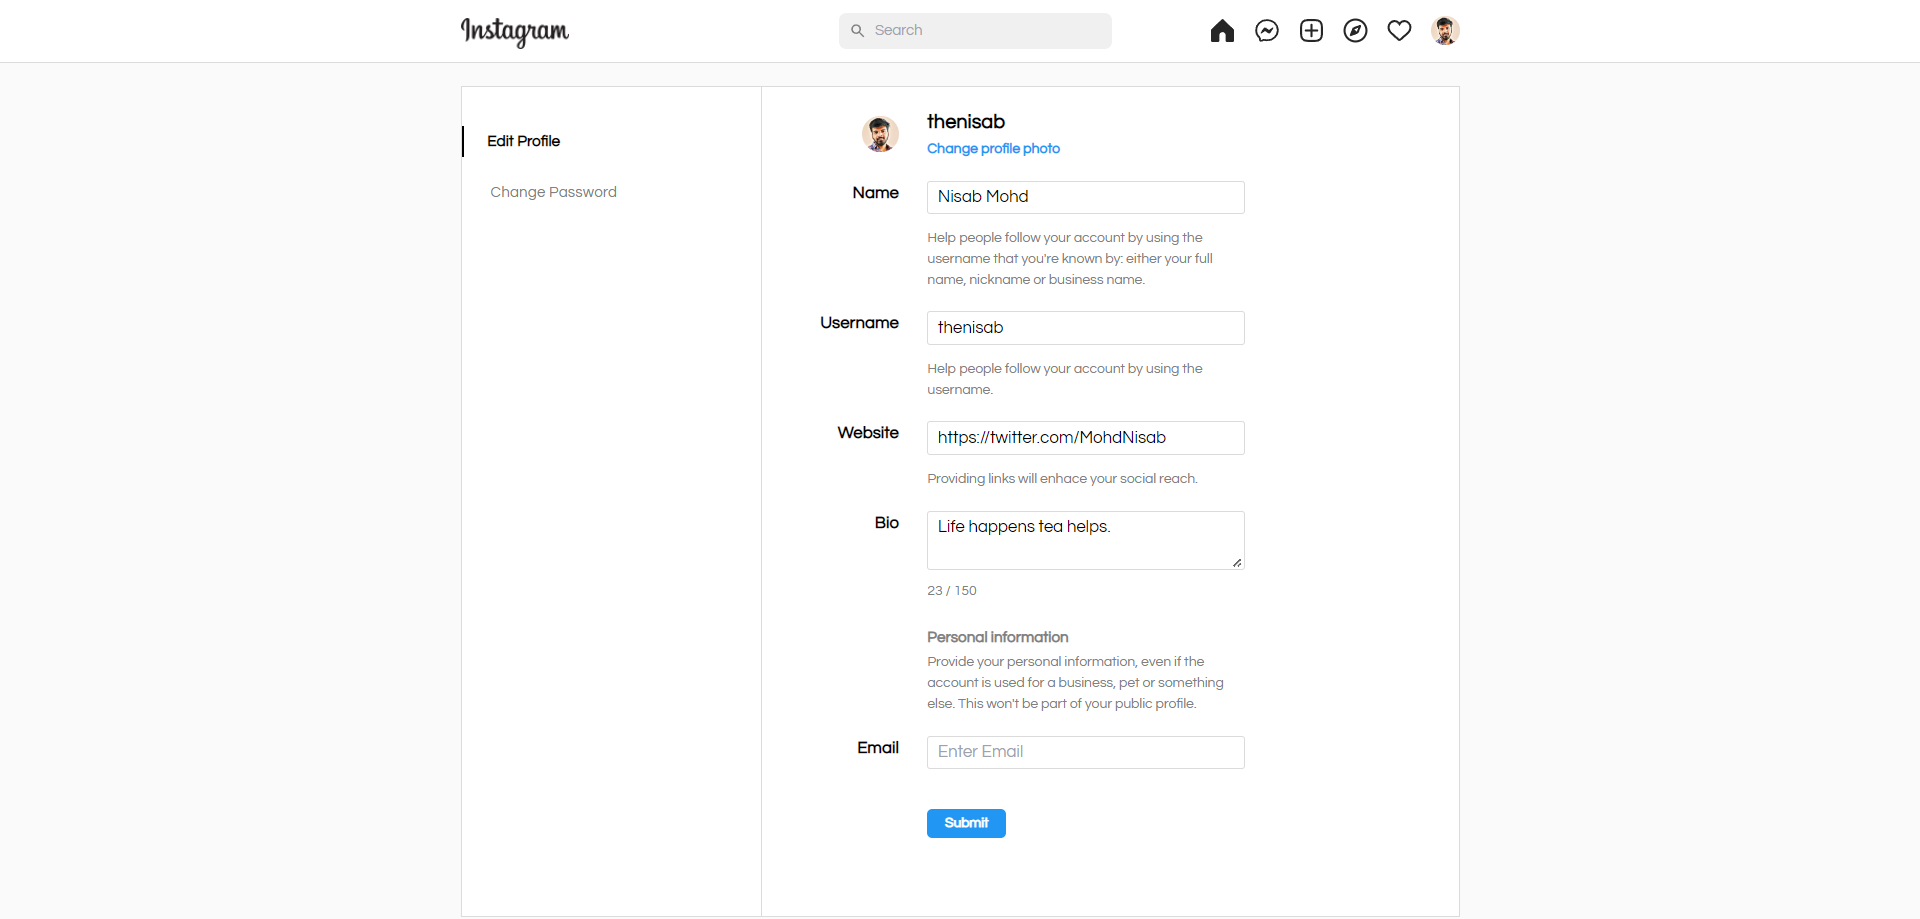
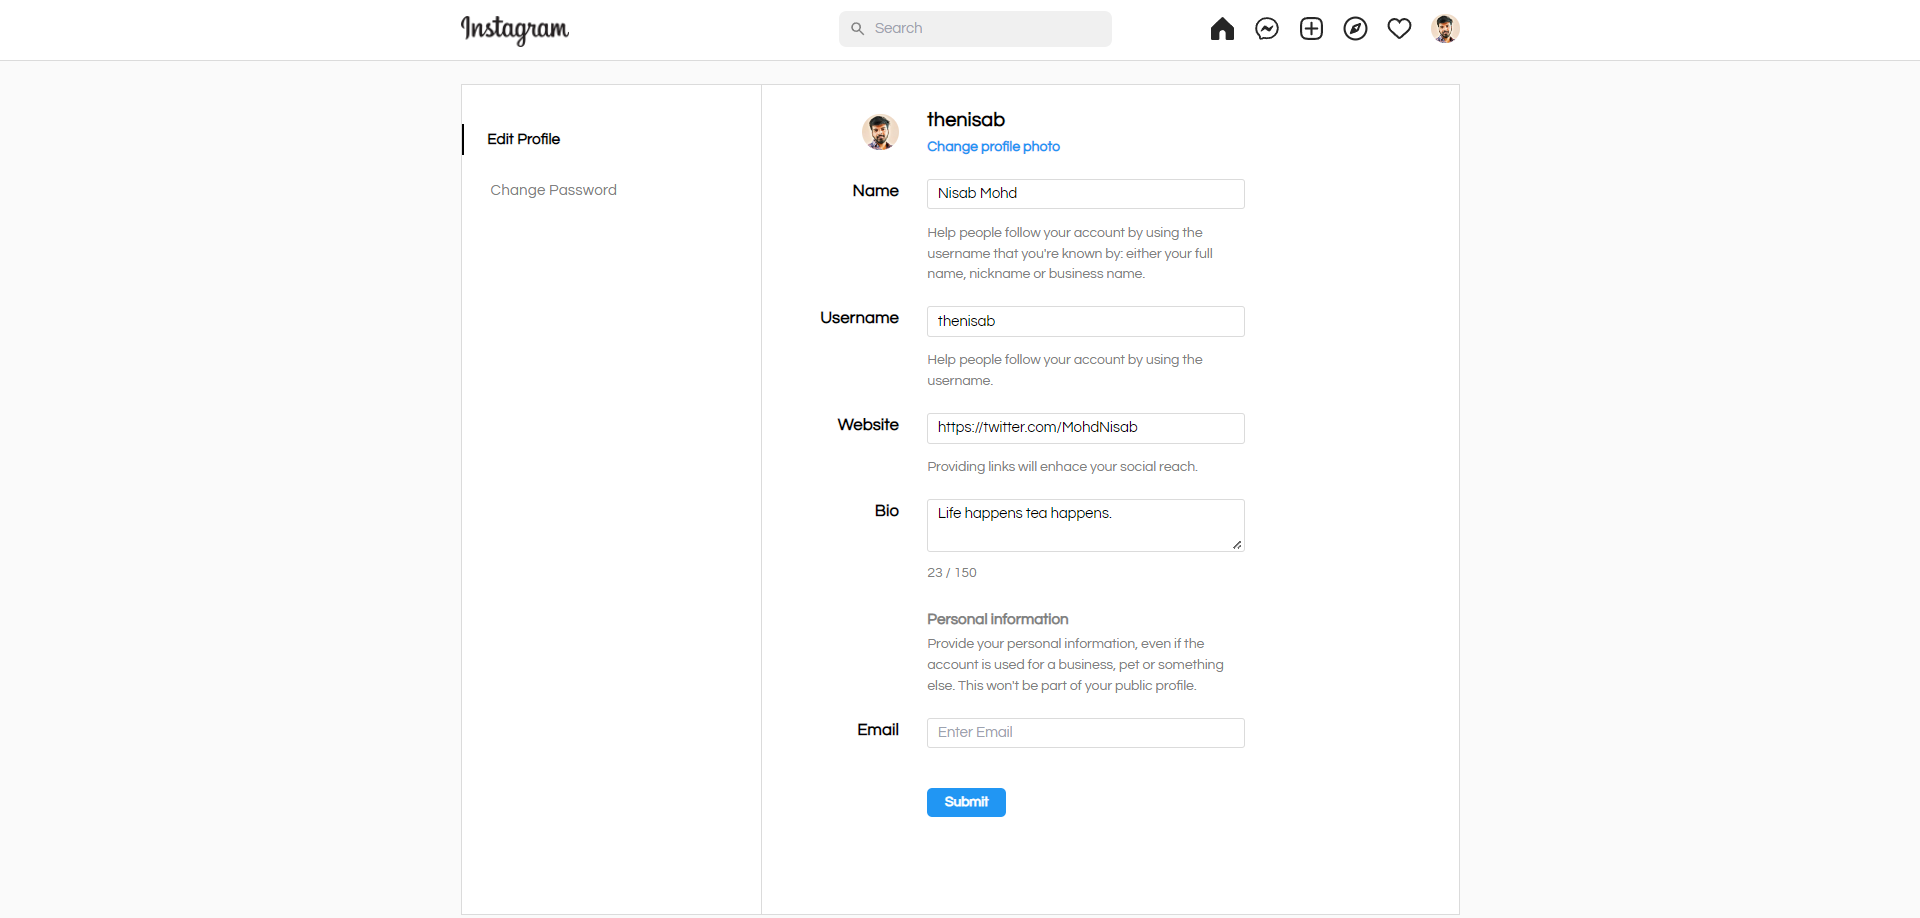
addedprofile btns

diff --git a/frontend/src/pages/Profile.jsx b/frontend/src/pages/Profile.jsx
@@ -5,9 +5,12 @@ import defaultimg from '../assets/dafault.png'
 import { Spinner } from '../assets/Spinner'
 import { url } from '../baseUrl'
 import { api } from '../Interceptor/apiCall'
+import { useContext } from 'react'
+import { AuthContext } from '../context/Auth'
 
 export const Profile = ({ post = true }) => {
-  const navigate=useNavigate()
+  const navigate = useNavigate()
+  const context = useContext(AuthContext)
   const [user, setUser] = useState()
   const [posts, setPosts] = useState([])
   const [loading, setLoading] = useState(true)
@@ -53,15 +56,28 @@ export const Profile = ({ post = true }) => {
           <div className="imageuser" style={{ width: '155px', height: '155px', borderRadius: '50%', border: '3px solid #c1c1c1', display: 'flex', alignItems: 'center', justifyContent: 'center', padding: '5px', objectFit: 'cover' }}>
             {
               <img src={user?.avatar ? user.avatar : defaultimg} style={{ minWidth: '145px', height: '145px', borderRadius: '50%', objectFit: 'cover' }} alt="" />
-
             }
           </div>
         </div>
         <div className="follow-details" style={{ marginLeft: '5vw' }}>
           <div className="samline" style={{ display: 'flex', flexDirection: 'row', alignItems: 'center' }}>
             <p style={{ fontSize: '29px', marginRight: '22px', fontWeight: 'lighter', color: '#424141' }}>{user?.username}</p>
-            <button onClick={()=>{navigate('/accounts/edit')}} style={{ border: '1px solid #c1c1c1', padding: '4px 7px', fontSize: '14px', borderRadius: '4px', fontWeight: 'bold', marginRight: '22px', color: '#424141' }}>Edit Profile</button>
-            <button className='no-style'><svg aria-label="Options" className="_ab6-" color="#262626" fill="#262626" height="24" role="img" viewBox="0 0 24 24" width="24"><circle cx="12" cy="12" fill="none" r="8.635" stroke="currentColor" strokeLinecap="round" strokeLinejoin="round" strokeWidth="2"></circle><path d="M14.232 3.656a1.269 1.269 0 0 1-.796-.66L12.93 2h-1.86l-.505.996a1.269 1.269 0 0 1-.796.66m-.001 16.688a1.269 1.269 0 0 1 .796.66l.505.996h1.862l.505-.996a1.269 1.269 0 0 1 .796-.66M3.656 9.768a1.269 1.269 0 0 1-.66.796L2 11.07v1.862l.996.505a1.269 1.269 0 0 1 .66.796m16.688-.001a1.269 1.269 0 0 1 .66-.796L22 12.93v-1.86l-.996-.505a1.269 1.269 0 0 1-.66-.796M7.678 4.522a1.269 1.269 0 0 1-1.03.096l-1.06-.348L4.27 5.587l.348 1.062a1.269 1.269 0 0 1-.096 1.03m11.8 11.799a1.269 1.269 0 0 1 1.03-.096l1.06.348 1.318-1.317-.348-1.062a1.269 1.269 0 0 1 .096-1.03m-14.956.001a1.269 1.269 0 0 1 .096 1.03l-.348 1.06 1.317 1.318 1.062-.348a1.269 1.269 0 0 1 1.03.096m11.799-11.8a1.269 1.269 0 0 1-.096-1.03l.348-1.06-1.317-1.318-1.062.348a1.269 1.269 0 0 1-1.03-.096" fill="none" stroke="currentColor" strokeLinejoin="round" strokeWidth="2"></path></svg></button>
+            {
+              user?._id !== context.auth._id &&
+              <button style={{ border: '1px solid #c1c1c1', padding: '4px 7px', fontSize: '14px', borderRadius: '4px', fontWeight: 'bold', marginRight: '22px', color: '#424141' }}>Message</button>
+            }
+            {
+              user?._id === context.auth._id ?
+                <button onClick={() => { navigate('/accounts/edit') }} style={{ border: '1px solid #c1c1c1', padding: '4px 7px', fontSize: '14px', borderRadius: '4px', fontWeight: 'bold', marginRight: '22px', color: '#424141' }}>Edit Profile</button>
+                :
+                <button style={{ padding: '5.5px 13px', fontSize: '14px', borderRadius: '4px', fontWeight: 'bold', marginRight: '22px', backgroundColor: 'rgb(33, 150, 243)', color: 'white' }}>Follow</button>
+            }
+
+            {
+              user?._id === context.auth._id && <button className='no-style'><svg aria-label="Options" className="_ab6-" color="#262626" fill="#262626" height="24" role="img" viewBox="0 0 24 24" width="24"><circle cx="12" cy="12" fill="none" r="8.635" stroke="currentColor" strokeLinecap="round" strokeLinejoin="round" strokeWidth="2"></circle><path d="M14.232 3.656a1.269 1.269 0 0 1-.796-.66L12.93 2h-1.86l-.505.996a1.269 1.269 0 0 1-.796.66m-.001 16.688a1.269 1.269 0 0 1 .796.66l.505.996h1.862l.505-.996a1.269 1.269 0 0 1 .796-.66M3.656 9.768a1.269 1.269 0 0 1-.66.796L2 11.07v1.862l.996.505a1.269 1.269 0 0 1 .66.796m16.688-.001a1.269 1.269 0 0 1 .66-.796L22 12.93v-1.86l-.996-.505a1.269 1.269 0 0 1-.66-.796M7.678 4.522a1.269 1.269 0 0 1-1.03.096l-1.06-.348L4.27 5.587l.348 1.062a1.269 1.269 0 0 1-.096 1.03m11.8 11.799a1.269 1.269 0 0 1 1.03-.096l1.06.348 1.318-1.317-.348-1.062a1.269 1.269 0 0 1 .096-1.03m-14.956.001a1.269 1.269 0 0 1 .096 1.03l-.348 1.06 1.317 1.318 1.062-.348a1.269 1.269 0 0 1 1.03.096m11.799-11.8a1.269 1.269 0 0 1-.096-1.03l.348-1.06-1.317-1.318-1.062.348a1.269 1.269 0 0 1-1.03-.096" fill="none" stroke="currentColor" strokeLinejoin="round" strokeWidth="2"></path></svg></button>
+
+            }
+
           </div>
           <div className="singleline" style={{ display: 'flex', flexDirection: 'row', alignItems: 'center', marginTop: '20px' }}>
             <p style={{ marginRight: '28px' }}><span style={{ fontWeight: 'bold', marginRight: '4px' }}>{user?.posts?.length}</span> Posts</p>
@@ -117,10 +133,14 @@ export const Profile = ({ post = true }) => {
             <svg aria-label="" className="_ab6-" color="#262626" fill="#262626" height="12" role="img" viewBox="0 0 24 24" width="12"><rect fill="none" height="18" stroke="currentColor" strokeLinecap="round" strokeLinejoin="round" strokeWidth="2" width="18" x="3" y="3"></rect><line fill="none" stroke="currentColor" strokeLinecap="round" strokeLinejoin="round" strokeWidth="2" x1="9.015" x2="9.015" y1="3" y2="21"></line><line fill="none" stroke="currentColor" strokeLinecap="round" strokeLinejoin="round" strokeWidth="2" x1="14.985" x2="14.985" y1="3" y2="21"></line><line fill="none" stroke="currentColor" strokeLinecap="round" strokeLinejoin="round" strokeWidth="2" x1="21" x2="3" y1="9.015" y2="9.015"></line><line fill="none" stroke="currentColor" strokeLinecap="round" strokeLinejoin="round" strokeWidth="2" x1="21" x2="3" y1="14.985" y2="14.985"></line></svg>
             <p style={{ fontSize: '12.4px', color: post ? 'black' : 'gray', marginLeft: '4px', fontWeight: post ? 'bold' : 'normal' }}>POSTS</p>
           </Link>
-          <Link to={`/saved/${user?.username}`} style={{ display: 'flex', flexDirection: 'row', alignItems: 'center', justifyContent: 'center', margin: '18px 18px', borderTop: !post ? '1px solid black' : '', paddingTop: '22px', marginTop: '-0.5px', width: '79px', paddingRight: '4px' }}>
-            <svg aria-label="" className="_ab6-" color="#8e8e8e" fill="#8e8e8e" height="12" role="img" viewBox="0 0 24 24" width="12"><polygon fill="none" points="20 21 12 13.44 4 21 4 3 20 3 20 21" stroke="currentColor" strokeLinecap="round" strokeLinejoin="round" strokeWidth="2"></polygon></svg>
-            <p style={{ fontSize: '12.4px', color: !post ? 'black' : 'gray', marginLeft: '4px', fontWeight: !post ? 'bold' : 'normal' }}>SAVED</p>
-          </Link>
+          {
+            user?._id === context.auth._id &&
+            <Link to={`/saved/${user?.username}`} style={{ display: 'flex', flexDirection: 'row', alignItems: 'center', justifyContent: 'center', margin: '18px 18px', borderTop: !post ? '1px solid black' : '', paddingTop: '22px', marginTop: '-0.5px', width: '79px', paddingRight: '4px' }}>
+              <svg aria-label="" className="_ab6-" color="#8e8e8e" fill="#8e8e8e" height="12" role="img" viewBox="0 0 24 24" width="12"><polygon fill="none" points="20 21 12 13.44 4 21 4 3 20 3 20 21" stroke="currentColor" strokeLinecap="round" strokeLinejoin="round" strokeWidth="2"></polygon></svg>
+              <p style={{ fontSize: '12.4px', color: !post ? 'black' : 'gray', marginLeft: '4px', fontWeight: !post ? 'bold' : 'normal' }}>SAVED</p>
+            </Link>
+          }
+
         </div>
         <div className="post-content">
           {
@@ -136,7 +156,7 @@ export const Profile = ({ post = true }) => {
               <div className='grid' style={{ display: 'grid', gridTemplateColumns: 'repeat(3,1fr)', rowGap: '17px' }}>
                 {
                   posts?.map(item =>
-                    <Image  likes={item.likes.length} comments={item.comments.length} key={item._id} src={item.files[0].link}></Image>
+                    <Image likes={item.likes.length} comments={item.comments.length} key={item._id} src={item.files[0].link}></Image>
                   )
                 }
 

diff --git a/frontend/src/pages/Settings.jsx b/frontend/src/pages/Settings.jsx
@@ -28,7 +28,7 @@ export const Settings = () => {
                             <p style={{ marginRight: '27px', fontWeight: 'bold' }}>Name</p>
                         </div>
                         <div className="tableright" style={{ width: '80%' }}>
-                            <input type="text" value={context.auth.name} style={{ outline: 'none', border: '1px solid #dbdbdb', padding: '3px 9px', borderRadius: '3px', width: '60%' }} />
+                            <input type="text" value={context.auth.name} style={{ outline: 'none', border: '1px solid #dbdbdb', padding: '3px 9px', borderRadius: '3px', width: '60%',fontSize:'14px' }} />
                             <p style={{ marginTop: '13px', fontSize: '13.2px', width: '60%', color: 'gray' }}>Help people follow your account by using the username that you're known by: either your full name, nickname or business name.</p>
                         </div>
                     </div>
@@ -37,7 +37,7 @@ export const Settings = () => {
                             <p style={{ marginRight: '27px', fontWeight: 'bold' }}>Username</p>
                         </div>
                         <div className="tableright" style={{ width: '80%' }}>
-                            <input type="text" value={context.auth.username} style={{ outline: 'none', border: '1px solid #dbdbdb', padding: '3px 9px', borderRadius: '3px', width: '60%' }} />
+                            <input type="text" value={context.auth.username} style={{ outline: 'none', border: '1px solid #dbdbdb', padding: '3px 9px', borderRadius: '3px', width: '60%',fontSize:'14px'  }} />
                             <p style={{ marginTop: '13px', fontSize: '13.2px', width: '60%', color: 'gray' }}>Help people follow your account by using the username.</p>
                         </div>
                     </div>
@@ -46,7 +46,7 @@ export const Settings = () => {
                             <p style={{ marginRight: '27px', fontWeight: 'bold' }}>Website</p>
                         </div>
                         <div className="tableright" style={{ width: '80%' }}>
-                            <input type="text" value={context.auth.website} style={{ outline: 'none', border: '1px solid #dbdbdb', padding: '3px 9px', borderRadius: '3px', width: '60%' }} />
+                            <input type="text" value={context.auth.website} style={{ outline: 'none', border: '1px solid #dbdbdb', padding: '3px 9px', borderRadius: '3px', width: '60%',fontSize:'14px' }} />
                             <p style={{ marginTop: '13px', fontSize: '13.2px', width: '60%', color: 'gray' }}>Providing links will enhace your social reach.</p>
                         </div>
                     </div>
@@ -55,7 +55,7 @@ export const Settings = () => {
                             <p style={{ marginRight: '27px', fontWeight: 'bold' }}>Bio</p>
                         </div>
                         <div className="tableright" style={{ width: '80%' }}>
-                            <textarea value={context.auth.bio} style={{ outline: 'none', border: '1px solid #dbdbdb', padding: '3px 9px', borderRadius: '3px', width: '60%' }} />
+                            <textarea value={context.auth.bio} style={{ outline: 'none', border: '1px solid #dbdbdb', padding: '3px 9px', borderRadius: '3px', width: '60%',fontSize:'14px' }} />
                             <p style={{ marginTop: '3px', fontSize: '13.2px', width: '60%', color: 'gray' }}>23 / 150</p>
 
                             <p style={{ marginTop: '23px', fontSize: '14.52px', width: '60%', color: 'gray', fontWeight: 'bold' }}>Personal information</p>
@@ -68,7 +68,7 @@ export const Settings = () => {
                             <p style={{ marginRight: '27px', fontWeight: 'bold' }}>Email</p>
                         </div>
                         <div className="tableright" style={{ width: '80%' }}>
-                            <input type="text" style={{ outline: 'none', border: '1px solid #dbdbdb', padding: '3px 9px', borderRadius: '3px', width: '60%', fontWeight: '14px' }} placeholder="Enter Email" />
+                            <input type="text" style={{ outline: 'none', border: '1px solid #dbdbdb', padding: '3px 9px', borderRadius: '3px', width: '60%', fontWeight: '14px',fontSize:'14px' }} placeholder="Enter Email" />
 
                         </div>
                     </div>

diff --git a/frontend/src/components/notification/Notification.jsx b/frontend/src/components/notification/Notification.jsx
@@ -2,7 +2,8 @@ import React, { useEffect, useState } from 'react'
 import { url } from '../../baseUrl'
 import { api } from '../../Interceptor/apiCall'
 import ReactTimeAgo from 'react-time-ago'
-
+import defaultImg from '../../assets/dafault.png'
+import {Link} from 'react-router-dom'
 
 export const Notification = ({ content, time, followbtn, postId = null, userId,seen }) => {
     const [user, setUser] = useState()
@@ -24,19 +25,19 @@ export const Notification = ({ content, time, followbtn, postId = null, userId,s
         })
     }, [postId])
     return (
-        <div className='notification' style={{ display: 'flex', flexDirection: 'row', margin: '3px 0px', alignItems: 'flex-start',backgroundColor:!seen?'#ececec':'white',padding:'10px 20px' }}>
+        <div className='notification' style={{ display: 'flex', flexDirection: 'row', margin: '3px 0px', alignItems: 'flex-start',padding:'10px 20px' }}>
             <div className="user-img">
-                <img src={user?.avatar} style={{ minWidth: '44px', height: '44px', objectFit: 'cover', borderRadius: '50%',marginRight:'3px' }} alt="" />
+                <Link to={`/${user?.username}`} ><img src={user?.avatar?user.avatar:defaultImg} style={{ minWidth: '44px', height: '44px', objectFit: 'cover', borderRadius: '50%',marginRight:'3px' }} alt="" /></Link>
             </div>
-            <div className="username" style={{ display: 'flex', flexDirection: 'row',marginLeft: '4px', }}>
-                <p style={{ fontSize: '12.99px', marginLeft: '4.2px', color: 'black' ,width:'85%'}}><span style={{ fontWeight: 'bold',marginRight:'5px'}}>{user?.username}</span>{content && content}</p>
+            <div className="username" style={{ display: 'flex', flexDirection: 'row',marginLeft: '4px',alignItems:'center',marginTop:'4px'}}>
+                <p style={{ fontSize: '12.99px', marginLeft: '4.2px', color: 'black' ,width:'85%'}}><Link to={`/${user?.username}`} style={{ fontWeight: 'bold',marginRight:'5px'}}>{user?.username}</Link>{content && content}</p>
                 <p style={{ fontSize: '12.15px', marginLeft: '4.2px', color: 'gray',marginTop:'3px' }}>{<ReactTimeAgo date={Date.parse(time)} locale="en-US" timeStyle="twitter"/>}</p>
             </div>
             {
                 followbtn && <button style={{ border: 'none', outline: 'none', background: 'blue', padding: '1px 5px', borderRadius: '5px', color: 'white', backgroundColor: '#2196f3', fontSize: '13px', width: '65px', fontWeight: 'bold', marginLeft: 'auto', height: '30px' }}>Follow</button>
             }
             {
-                post && postId && <img style={{ width: '45px', height: '45px', objectFit: 'cover', marginLeft: 'auto', }} src={post.images[0]} alt="" />
+                post && postId && <img style={{ width: '45px', height: '45px', objectFit: 'cover', marginLeft: 'auto', }} src={post.files[0].link} alt="" />
             }
 
         </div>

diff --git a/frontend/src/components/home/rightbar/Right.jsx b/frontend/src/components/home/rightbar/Right.jsx
@@ -3,6 +3,7 @@ import { useContext } from 'react'
 import { UserCard } from './UserCard'
 import { AuthContext } from '../../../context/Auth'
 import defaultImg from '../../../assets/dafault.png'
+import { Link } from 'react-router-dom'
 
 export default function Right() {
     const { auth } = useContext(AuthContext)
@@ -11,12 +12,12 @@ export default function Right() {
             <div className="my-acc" style={{ display: 'flex', flexDirection: 'row', alignItems: 'center', justifyContent: 'space-between' }}>
                 <div className="img" style={{ display: 'flex', flexDirection: 'row', alignItems: 'center' }}>
                     {
-                        <img src={auth?.avatar ? auth.avatar : defaultImg} style={{ minWidth: '60px', height: '60px', borderRadius: '50%', objectFit: 'cover' }} alt="" />
+                        <Link to={`/${auth?.username}`}><img src={auth?.avatar ? auth.avatar : defaultImg} style={{ minWidth: '60px', height: '60px', borderRadius: '50%', objectFit: 'cover' }} alt="" /></Link>
 
                     }
                     <div className="name" style={{ display: 'flex', flexDirection: 'column', marginLeft: '18px' }}>
-                        <p style={{ color: 'black', fontSize: '14.75px', fontWeight: 'bold' }}>{auth?.username}</p>
-                        <p style={{ color: 'gray', fontSize: '14.75px', marginTop: '9px' }}>{auth?.name}</p>
+                        <Link to={`/${auth?.username}`} style={{ color: 'black', fontSize: '14.75px', fontWeight: 'bold' }}>{auth?.username}</Link>
+                        <Link to={`/${auth?.username}`} style={{ color: 'gray', fontSize: '14.75px', marginTop: '9px' }}>{auth?.name}</Link>
                     </div>
                 </div>
                 <div className="switch">

diff --git a/backend/controllers/post.js b/backend/controllers/post.js
@@ -155,7 +155,7 @@ exports.addComment = async (req, res) => {
           $push: {
             notifications: {
               user: req.user._id,
-              content: `${req.body.comment} `,
+              content: `commented : ${req.body.comment} `,
               NotificationType: 2,
               postId: req.params.postId,
             },
